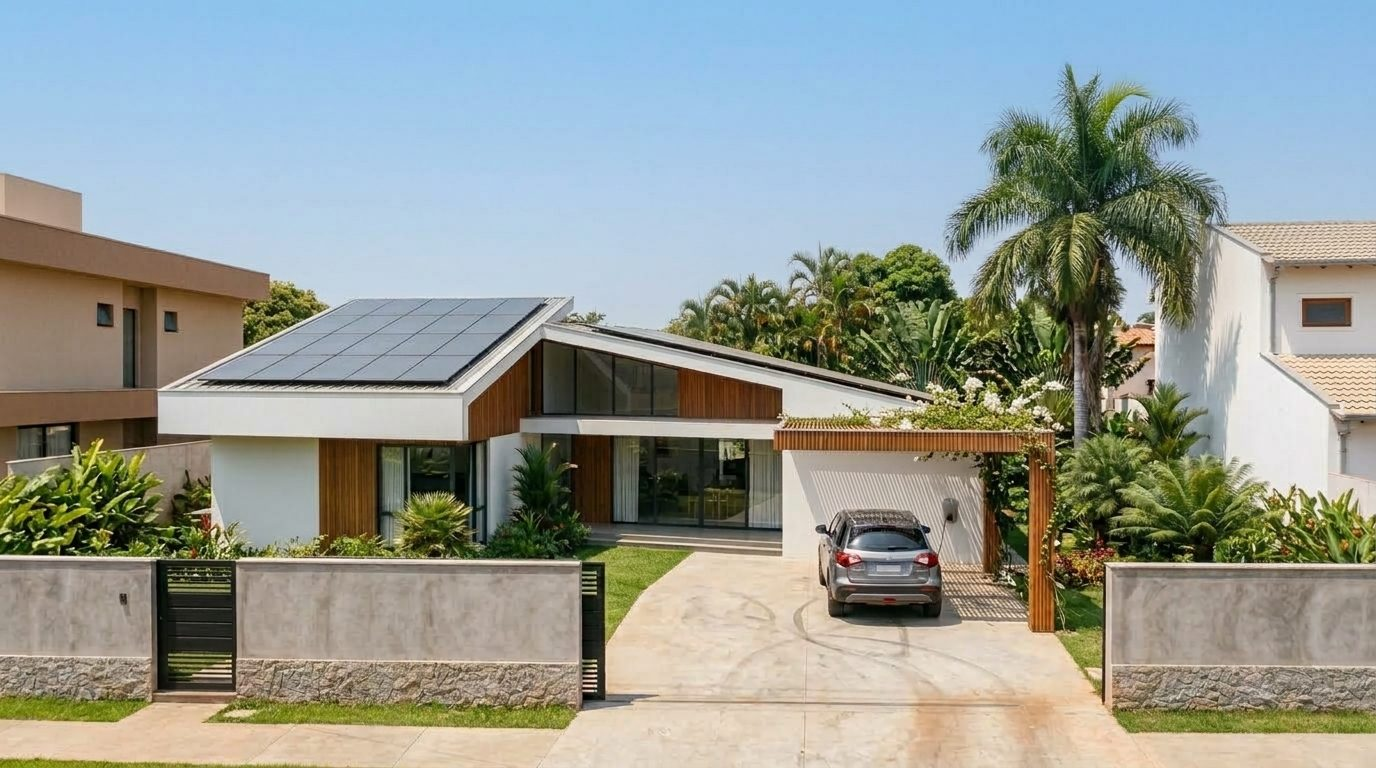
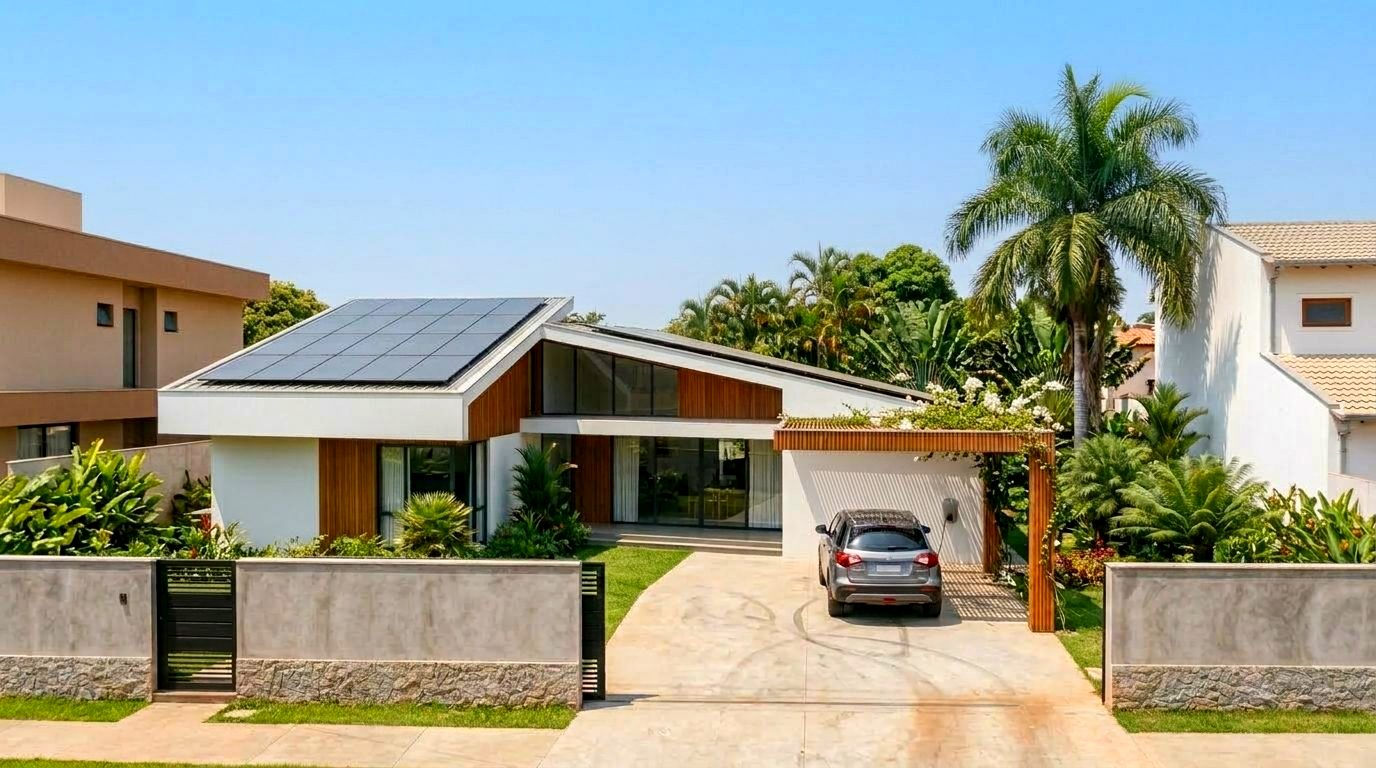
Encabezado más bajo, foto de portada más viva, azul y fondos más intensos, pie azul de marca
Claude-Session: https://claude.ai/code/session_01G4iyVv89PAyh5767DMQQgH

diff --git a/css/esa.css b/css/esa.css
@@ -10,14 +10,14 @@
 :root{
   --tinta:#1D2127;     /* títulos y textos */
   --gris:#5A6370;      /* textos secundarios */
-  --azul:#1B5FD6;      /* botones, íconos y enlaces */
-  --azul-2:#164FB4;
+  --azul:#1463F3;      /* botones, íconos y enlaces */
+  --azul-2:#0F50CC;
   --azul-osc:#0A2F66;  /* azul del brochure */
   --rojo:#E60000;      /* rojo del logo: subrayado de títulos y menú activo */
-  --claro:#F1F4F7;     /* fondos suaves y pie de tarjetas */
+  --claro:#EAF2FF;     /* fondos suaves (celeste) y pie de tarjetas */
   --linea:#DFE4EA;
   --verde:#1F8F55;
-  --pie:#1C2230;       /* pie de página */
+  --pie:#0A2F66;       /* pie de página: azul del brochure */
   --radio:20px;
   --celeste:#fff;      /* alias para estilos en línea antiguos */
 }
@@ -36,7 +36,7 @@ section{padding:96px 0}
 .fondo{background:var(--claro)}
 .kicker{display:inline-block;font-weight:600;color:var(--azul)}
 h1,h2,h3{font-weight:600;letter-spacing:-.01em;text-wrap:balance}
-[id]{scroll-margin-top:84px}
+[id]{scroll-margin-top:74px}
 html{-webkit-tap-highlight-color:rgba(27,95,214,.15)}
 a,button,input,select,textarea,label{touch-action:manipulation}
 h2{font-size:clamp(1.8rem,3.2vw,2.4rem);line-height:1.2;margin:0 0 .9rem}
@@ -50,7 +50,7 @@ h2{font-size:clamp(1.8rem,3.2vw,2.4rem);line-height:1.2;margin:0 0 .9rem}
 .btn{display:inline-flex;align-items:center;justify-content:center;gap:.5rem;font:600 1.05rem Outfit,sans-serif;padding:.95rem 2rem;border-radius:999px;border:2px solid transparent;cursor:pointer;transition:background .2s,color .2s}
 .btn-rojo,.btn-azul{background:var(--azul);color:#fff}.btn-rojo:hover,.btn-azul:hover{background:var(--azul-2)}
 .btn-linea{border-color:#fff;color:#fff}.btn-linea:hover{background:#fff;color:var(--tinta)}
-.btn-borde{border-color:var(--azul);color:var(--azul);padding:.45rem 1.2rem;font-size:.92rem;border-width:1.5px}.btn-borde:hover{background:var(--azul);color:#fff}
+.btn-borde{border-color:var(--azul);color:var(--azul);padding:.35rem 1.1rem;font-size:.9rem;border-width:1.5px}.btn-borde:hover{background:var(--azul);color:#fff}
 .acciones{display:flex;gap:1rem;flex-wrap:wrap;margin-top:2rem}
 .centro .acciones{justify-content:center}
 .ver{color:var(--azul);font-weight:600}
@@ -67,9 +67,9 @@ h2{font-size:clamp(1.8rem,3.2vw,2.4rem);line-height:1.2;margin:0 0 .9rem}
 
 /* Menú */
 header{position:sticky;top:0;z-index:50;background:#fff;box-shadow:0 2px 14px rgba(20,30,50,.07)}
-.nav{display:flex;align-items:center;justify-content:space-between;height:64px}
-.logo img{height:26px;width:auto}
-.menu{display:flex;align-items:center;gap:2rem;list-style:none;font-weight:500;font-size:.95rem}
+.nav{display:flex;align-items:center;justify-content:space-between;height:54px}
+.logo img{height:22px;width:auto}
+.menu{display:flex;align-items:center;gap:1.8rem;list-style:none;font-weight:500;font-size:.92rem}
 .menu a:not(.btn){padding:.35rem 0;border-bottom:2px solid transparent}
 .menu a:not(.btn):hover{color:var(--azul)}
 .menu a[aria-current="page"]{color:var(--azul);border-bottom-color:var(--rojo)}
@@ -78,18 +78,18 @@ header{position:sticky;top:0;z-index:50;background:#fff;box-shadow:0 2px 14px rg
 
 /* Portada: foto a todo el ancho, texto centrado */
 .portada,.slide{position:relative;color:#fff;text-align:center;--img:url("../img/hero.jpg");background:var(--img) center/cover no-repeat,#3A4250}
-.portada::after,.slide::after{content:"";position:absolute;inset:0;background:rgba(10,18,32,.42)}
+.portada::after,.slide::after{content:"";position:absolute;inset:0;background:radial-gradient(ellipse 60% 55% at 50% 48%,rgba(8,20,45,.42) 0%,rgba(8,20,45,.18) 70%,rgba(8,20,45,.08) 100%)}
 .portada{min-height:640px;display:flex;align-items:center;padding:110px 0 170px}
 .portada .wrap,.slide .wrap{position:relative;z-index:2}
 .portada h1,.slide h1,.slide h2{font-size:clamp(2.2rem,4.2vw,3.1rem);line-height:1.15;font-weight:600;max-width:820px;margin:0 auto 1.1rem;text-shadow:0 2px 18px rgba(0,0,0,.25)}
-.portada p,.slide p{font-size:clamp(1.15rem,2vw,1.65rem);font-weight:500;line-height:1.4;max-width:700px;margin-inline:auto;text-shadow:0 2px 14px rgba(0,0,0,.25)}
+.portada p,.slide p{font-size:clamp(1.15rem,2vw,1.65rem);font-weight:500;line-height:1.4;max-width:700px;margin-inline:auto;text-shadow:0 1px 3px rgba(0,0,0,.35),0 2px 16px rgba(0,0,0,.3)}
 .portada .acciones,.slide .acciones{justify-content:center}
 .portada .lema,.slide .lema{display:block;font-size:clamp(1rem,1.8vw,1.25rem);margin-bottom:1rem}
 .migas{font-size:.95rem;opacity:.9;margin-bottom:1rem}
 .migas a:hover{text-decoration:underline}
 
 /* Carrusel (Inicio) */
-.carrusel{position:relative;padding:0;height:min(780px,calc(100vh - 64px));min-height:600px;overflow:hidden;background:#3A4250}
+.carrusel{position:relative;padding:0;height:min(780px,calc(100vh - 54px));min-height:600px;overflow:hidden;background:#3A4250}
 .slide{position:absolute;inset:0;display:flex;align-items:center;opacity:0;visibility:hidden;transition:opacity .8s,visibility .8s}
 .slide.activa{opacity:1;visibility:visible}
 .puntos{position:absolute;z-index:4;left:50%;transform:translateX(-50%);bottom:34px;display:flex;gap:.6rem}
@@ -172,7 +172,7 @@ a.tarjeta:hover .ir{text-decoration:underline}
 .caja p{color:var(--gris);font-size:.97rem}
 .caja.oscura{background:var(--azul-osc);color:#fff;border-color:var(--azul-osc)}
 .caja.oscura h3{color:#fff}.caja.oscura p{color:rgba(255,255,255,.85)}
-.icono{width:46px;height:46px;border-radius:12px;background:#EEF3FB;color:var(--azul);display:grid;place-items:center;margin-bottom:1rem}
+.icono{width:46px;height:46px;border-radius:12px;background:#E1ECFF;color:var(--azul);display:grid;place-items:center;margin-bottom:1rem}
 
 /* Pasos */
 .pasos{counter-reset:p}
@@ -217,7 +217,7 @@ a.tarjeta:hover .ir{text-decoration:underline}
 
 .datos{list-style:none;display:grid;gap:1.1rem}
 .datos li{display:flex;gap:.9rem;align-items:flex-start}
-.datos .ic{width:44px;height:44px;flex:none;border-radius:12px;background:#EEF3FB;color:var(--azul);display:grid;place-items:center}
+.datos .ic{width:44px;height:44px;flex:none;border-radius:12px;background:#E1ECFF;color:var(--azul);display:grid;place-items:center}
 .datos a{color:var(--azul);font-weight:500}
 .mapa{border:0;width:100%;height:340px;border-radius:var(--radio);margin-top:2rem}
 
@@ -239,7 +239,7 @@ footer .contacto-pie a{text-decoration:underline}
 /* Responsivo */
 @media (max-width:1300px){.flecha.izq{left:-12px}.flecha.der{right:-12px}}
 @media (max-width:1100px){
-  .menu{position:fixed;inset:64px 0 auto 0;background:#fff;flex-direction:column;align-items:flex-start;padding:1.2rem 16px 1.6rem;gap:1rem;box-shadow:0 12px 20px rgba(0,0,0,.08);display:none}
+  .menu{position:fixed;inset:54px 0 auto 0;background:#fff;flex-direction:column;align-items:flex-start;padding:1.2rem 16px 1.6rem;gap:1rem;box-shadow:0 12px 20px rgba(0,0,0,.08);display:none}
   .menu.abierto{display:flex}
   .menu li:last-child{margin-left:0}
   .burger{display:block}
@@ -264,6 +264,7 @@ footer .contacto-pie a{text-decoration:underline}
   .pista,.pista.tres,.pista.dos{grid-auto-columns:85%}
   .flecha{display:none}
   .carrusel{min-height:620px}
+  .portada::after,.slide::after{background:linear-gradient(180deg,rgba(8,20,45,.25) 0%,rgba(8,20,45,.5) 45%,rgba(8,20,45,.45) 100%)}
 }
 .producto .img{--img:none;background:var(--img) center/contain no-repeat;background-origin:content-box}
 .producto .img.ok svg{display:none}

diff --git a/index.html b/index.html
@@ -115,7 +115,7 @@
 <a href="#contenido" class="saltar">Saltar al contenido</a>
 <header>
   <div class="wrap nav">
-    <a href="index.html" class="logo" translate="no"><img src="img/logo.png" alt="ESA Energía Solar Accesible, ir al inicio" width="139" height="26"></a>
+    <a href="index.html" class="logo" translate="no"><img src="img/logo.png" alt="ESA Energía Solar Accesible, ir al inicio" width="117" height="22"></a>
     <button class="burger" aria-label="Abrir menú" aria-expanded="false" aria-controls="menu">☰</button>
     <ul class="menu" id="menu">
       <li><a href="index.html" aria-current="page">Inicio</a></li>

diff --git a/contacto.html b/contacto.html
@@ -115,7 +115,7 @@
 <a href="#contenido" class="saltar">Saltar al contenido</a>
 <header>
   <div class="wrap nav">
-    <a href="index.html" class="logo" translate="no"><img src="img/logo.png" alt="ESA Energía Solar Accesible, ir al inicio" width="139" height="26"></a>
+    <a href="index.html" class="logo" translate="no"><img src="img/logo.png" alt="ESA Energía Solar Accesible, ir al inicio" width="117" height="22"></a>
     <button class="burger" aria-label="Abrir menú" aria-expanded="false" aria-controls="menu">☰</button>
     <ul class="menu" id="menu">
       <li><a href="index.html">Inicio</a></li>

diff --git a/empresas.html b/empresas.html
@@ -29,7 +29,7 @@
 <a href="#contenido" class="saltar">Saltar al contenido</a>
 <header>
   <div class="wrap nav">
-    <a href="index.html" class="logo" translate="no"><img src="img/logo.png" alt="ESA Energía Solar Accesible, ir al inicio" width="139" height="26"></a>
+    <a href="index.html" class="logo" translate="no"><img src="img/logo.png" alt="ESA Energía Solar Accesible, ir al inicio" width="117" height="22"></a>
     <button class="burger" aria-label="Abrir menú" aria-expanded="false" aria-controls="menu">☰</button>
     <ul class="menu" id="menu">
       <li><a href="index.html">Inicio</a></li>

diff --git a/grandes-proyectos.html b/grandes-proyectos.html
@@ -29,7 +29,7 @@
 <a href="#contenido" class="saltar">Saltar al contenido</a>
 <header>
   <div class="wrap nav">
-    <a href="index.html" class="logo" translate="no"><img src="img/logo.png" alt="ESA Energía Solar Accesible, ir al inicio" width="139" height="26"></a>
+    <a href="index.html" class="logo" translate="no"><img src="img/logo.png" alt="ESA Energía Solar Accesible, ir al inicio" width="117" height="22"></a>
     <button class="burger" aria-label="Abrir menú" aria-expanded="false" aria-controls="menu">☰</button>
     <ul class="menu" id="menu">
       <li><a href="index.html">Inicio</a></li>

diff --git a/hogar.html b/hogar.html
@@ -29,7 +29,7 @@
 <a href="#contenido" class="saltar">Saltar al contenido</a>
 <header>
   <div class="wrap nav">
-    <a href="index.html" class="logo" translate="no"><img src="img/logo.png" alt="ESA Energía Solar Accesible, ir al inicio" width="139" height="26"></a>
+    <a href="index.html" class="logo" translate="no"><img src="img/logo.png" alt="ESA Energía Solar Accesible, ir al inicio" width="117" height="22"></a>
     <button class="burger" aria-label="Abrir menú" aria-expanded="false" aria-controls="menu">☰</button>
     <ul class="menu" id="menu">
       <li><a href="index.html">Inicio</a></li>

diff --git a/nosotros.html b/nosotros.html
@@ -29,7 +29,7 @@
 <a href="#contenido" class="saltar">Saltar al contenido</a>
 <header>
   <div class="wrap nav">
-    <a href="index.html" class="logo" translate="no"><img src="img/logo.png" alt="ESA Energía Solar Accesible, ir al inicio" width="139" height="26"></a>
+    <a href="index.html" class="logo" translate="no"><img src="img/logo.png" alt="ESA Energía Solar Accesible, ir al inicio" width="117" height="22"></a>
     <button class="burger" aria-label="Abrir menú" aria-expanded="false" aria-controls="menu">☰</button>
     <ul class="menu" id="menu">
       <li><a href="index.html">Inicio</a></li>

diff --git a/tools/build.py b/tools/build.py
@@ -77,7 +77,7 @@ def cabecera(archivo):
     return f'''<a href="#contenido" class="saltar">Saltar al contenido</a>
 <header>
   <div class="wrap nav">
-    <a href="index.html" class="logo" translate="no"><img src="img/logo.png" alt="ESA Energía Solar Accesible, ir al inicio" width="139" height="26"></a>
+    <a href="index.html" class="logo" translate="no"><img src="img/logo.png" alt="ESA Energía Solar Accesible, ir al inicio" width="117" height="22"></a>
     <button class="burger" aria-label="Abrir menú" aria-expanded="false" aria-controls="menu">☰</button>
     <ul class="menu" id="menu">
 {chr(10).join(items)}
